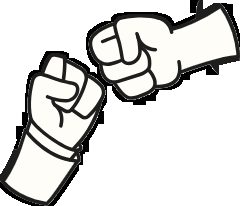
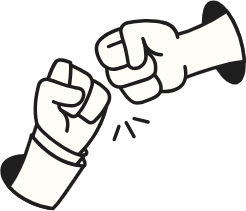
Replace the landing illustrations with the new hand drawings
The hero, cohort, commitment cards, how-it-works column, and footer now use the new bill, diamond, handshake, lock, and fist-bump art, in the same pop-in spots as before.

Changed region(s): [[0.0, 0.0, 1.0, 1.0], [0.4375, 0.5534, 0.6125, 0.6699]]

diff --git a/frontend/components/HomeExperience.tsx b/frontend/components/HomeExperience.tsx
@@ -142,11 +142,11 @@ export function HomeExperience() {
           <div className="hero-hands" aria-hidden>
             <div className="hand hand-paper" data-reveal="hand" style={wait(0.15)}>
               {/* eslint-disable-next-line @next/next/no-img-element */}
-              <img alt="" height={1024} src="/assets/paperhands/illustrations/bill.png" width={764} />
+              <img alt="" height={1024} src="/assets/paperhands/illustrations/bill.png" width={765} />
             </div>
             <div className="hand hand-diamond" data-reveal="hand" style={wait(0.4)}>
               {/* eslint-disable-next-line @next/next/no-img-element */}
-              <img alt="" height={1024} src="/assets/paperhands/illustrations/diamond.png" width={824} />
+              <img alt="" height={1024} src="/assets/paperhands/illustrations/diamond.png" width={775} />
             </div>
           </div>
           <div className="hero-copy relative z-10 mx-auto max-w-3xl text-center" data-reveal="soft">
@@ -186,7 +186,7 @@ export function HomeExperience() {
         <div className="text-center" data-reveal="soft">
           <div className="mx-auto w-fit" data-reveal="hand">
             {/* eslint-disable-next-line @next/next/no-img-element */}
-            <img alt="" className="h-44 w-auto" height={757} src="/assets/paperhands/illustrations/handshake.png" width={764} />
+            <img alt="" className="h-44 w-auto" height={847} src="/assets/paperhands/illustrations/handshake.png" width={894} />
           </div>
           <p className="eyebrow mt-2">Live community</p>
         <h2 className="display-md mt-3 text-center">
@@ -216,7 +216,7 @@ export function HomeExperience() {
         <div className="mt-8 grid gap-4 lg:grid-cols-2">
           <article className="card p-6" data-reveal="tilt">
             {/* eslint-disable-next-line @next/next/no-img-element */}
-            <img alt="" className="card-art" height={1024} src="/assets/paperhands/illustrations/bill.png" width={764} />
+            <img alt="" className="card-art" height={1024} src="/assets/paperhands/illustrations/bill.png" width={765} />
             <h3 className="mt-2 font-display text-4xl">Paper hands</h3>
             <ul className="mt-4 space-y-2 text-ink/80">
               <li>Leave after the entry window.</li>
@@ -226,7 +226,7 @@ export function HomeExperience() {
           </article>
           <article className="card forest p-6 text-cream" data-reveal="tilt-right" style={wait(0.12)}>
             {/* eslint-disable-next-line @next/next/no-img-element */}
-            <img alt="" className="card-art" height={1024} src="/assets/paperhands/illustrations/diamond.png" width={824} />
+            <img alt="" className="card-art" height={1024} src="/assets/paperhands/illustrations/diamond.png" width={775} />
             <h3 className="mt-2 font-display text-4xl">Diamond hands</h3>
             <ul className="mt-4 space-y-2 text-cream/85">
               <li>Remain committed through the epoch.</li>
@@ -258,7 +258,7 @@ export function HomeExperience() {
           <p className="mt-4 text-ink/75">Six actions. The contract is the one that moves PAPER. The buttons live on the commitment page.</p>
           <div className="mt-6 hidden w-fit lg:block" data-reveal="hand">
             {/* eslint-disable-next-line @next/next/no-img-element */}
-            <img alt="" className="h-64 w-auto" height={1024} src="/assets/paperhands/illustrations/lock.png" width={764} />
+            <img alt="" className="h-64 w-auto" height={1024} src="/assets/paperhands/illustrations/lock.png" width={747} />
           </div>
         </div>
         <ol className="grid gap-4">
@@ -395,7 +395,7 @@ export function HomeExperience() {
         <div className="grid gap-4 md:grid-cols-2">
           <div className="relative overflow-hidden rounded-[2rem] bg-forest p-6 text-cream" data-reveal>
             {/* eslint-disable-next-line @next/next/no-img-element */}
-            <img alt="" className="ml-auto h-28 w-auto" height={206} src="/assets/paperhands/illustrations/bump.png" width={240} />
+            <img alt="" className="ml-auto h-28 w-auto" height={211} src="/assets/paperhands/illustrations/bump.png" width={246} />
             <p className="font-display text-4xl">Weak hands. Strong rules.</p>
             <p className="mt-3 text-cream/80">PAPERHANDS on NEAR. The faucet is not Sybil-proof.</p>
           </div>

diff --git a/frontend/app/commitment/page.tsx b/frontend/app/commitment/page.tsx
@@ -88,7 +88,7 @@ export default function CommitmentPage() {
       <div className="grid gap-4 lg:grid-cols-[1.1fr_0.9fr]">
         <article className="card overflow-hidden p-6">
           {/* eslint-disable-next-line @next/next/no-img-element */}
-          <img alt="" className="card-art" height={1024} src="/assets/paperhands/illustrations/bill.png" width={764} />
+          <img alt="" className="card-art" height={1024} src="/assets/paperhands/illustrations/bill.png" width={765} />
           <h2 className="font-display text-4xl">Paper hands</h2>
           <ul className="mt-4 space-y-2 text-ink/80">
             <li>Leave after the entry window and before the epoch ends.</li>
@@ -98,7 +98,7 @@ export default function CommitmentPage() {
         </article>
         <article className="card forest overflow-hidden p-6 text-cream">
           {/* eslint-disable-next-line @next/next/no-img-element */}
-          <img alt="" className="card-art" height={1024} src="/assets/paperhands/illustrations/diamond.png" width={824} />
+          <img alt="" className="card-art" height={1024} src="/assets/paperhands/illustrations/diamond.png" width={775} />
           <h2 className="font-display text-4xl">Diamond hands</h2>
           <ul className="mt-4 space-y-2 text-cream/85">
             <li>Stay through the epoch.</li>
